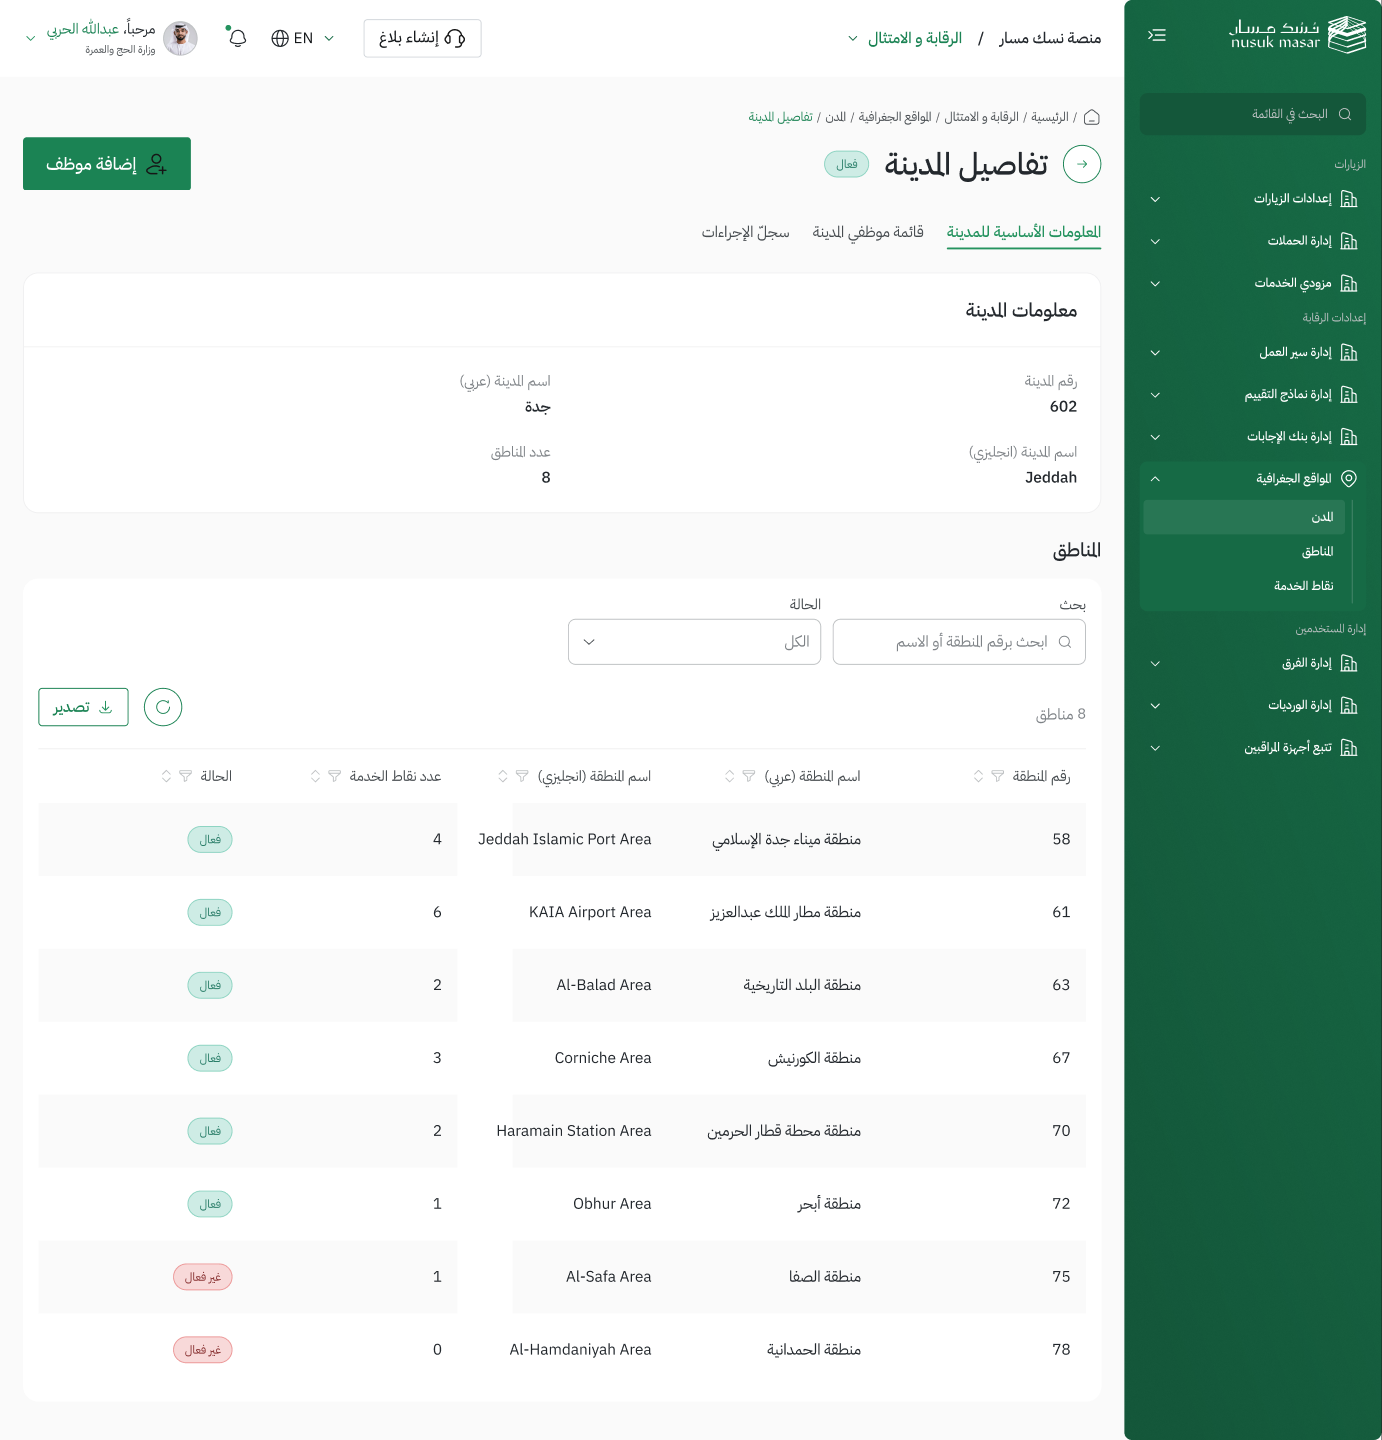
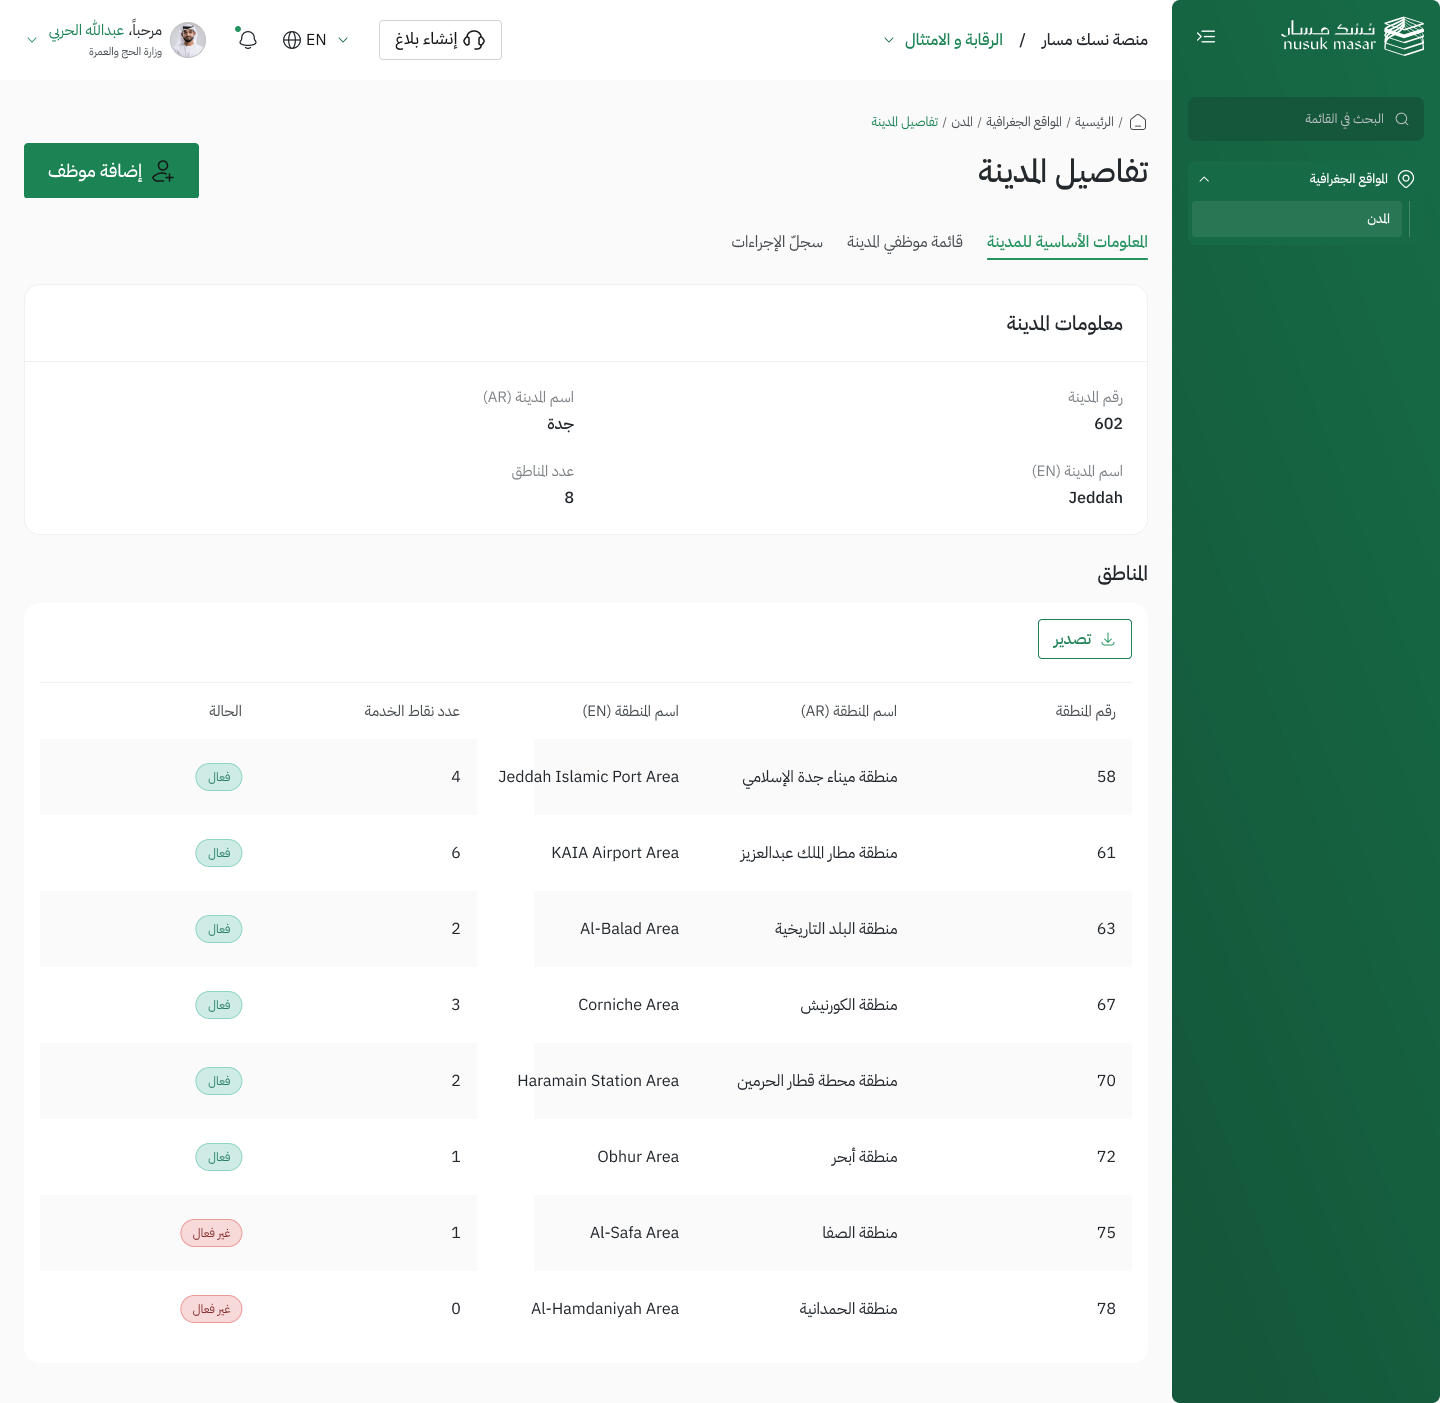
Imtithal cities: strict story pass (no extras), refreshed previews
Claude-Session: https://claude.ai/code/session_01CyctH4WFBszWbBNkvnfQuz

diff --git a/CLAUDE.md b/CLAUDE.md
@@ -373,6 +373,14 @@ All four libraries are published and reachable through `search_design_system`.
   nav shows only «المواقع الجغرافية» with the single 2nd-level «المدن» (other sections, items, section titles and the
   المناطق/نقاط الخدمة items are hidden, not deleted); breadcrumbs are الرئيسية / المواقع الجغرافية / المدن (+ تفاصيل
   المدينة on details); the header status chip in details is hidden (the story's header lists only «إضافة موظف»).
+- **Strict story pass (user: «apply everything in the stories, add nothing, remove nothing»):** removed what the stories don't
+  name — paginators, table item counts, column sorting, dropdown filters, header back button, header status chip, avatars
+  in name columns (`name` → `{label}_name`). Kept per story: list = search (search_only header) + per-column filter icons
+  («filter for all fields») + «تصدير» + refresh; cards = total / active / inactive with number (title «34 من 35») and
+  percentage («97%», the DS «%» text hidden and the % appended to the number). Detail tables keep only «تصدير» (list-story
+  rule «export any table into an excel sheet»). Wording from the story: menu «إضافة موظف/موظفين للمدينة» + «إلغاء تفعيل»,
+  labels «اسم المدينة (AR)/(EN)», «اسم المنطقة (AR)/(EN)». Page chrome kept: top_bar, nav (المواقع الجغرافية › المدن),
+  breadcrumbs, persona banner/sections.
 - Previews `previews/imtithal-cities/`.
 
 ## Transport Information Center homepage (DGA review)
